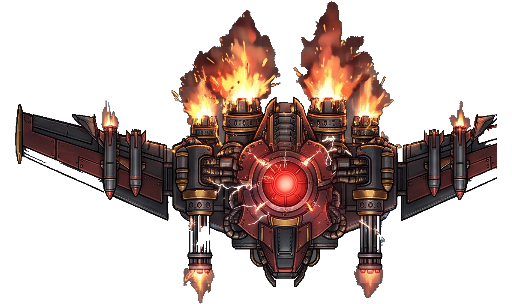
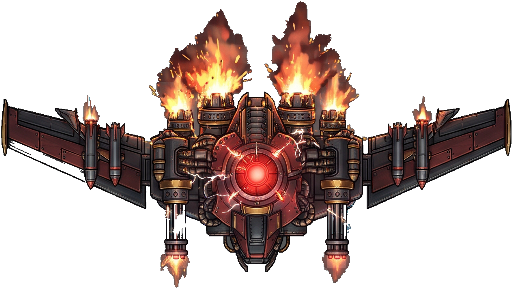
fix(plane): 修正 Boss 精灵裁切、背景铺满与 HUD 层级
- Boss 改为按设计稿半幅裁切，补回两侧翼尖与末端挂架；连通域保留阈值放宽，避免小部件被误删
- Boss 固定居中，不再左右移动
- 背景改为在实际画布坐标系 cover 铺满，消除左右黑边；加载失败回退纯色
- HUD / 控制栏叠到画布上层并加半透明暗底，保证星云背景上的文字可读

diff --git a/lib/games/plane/plane_game.dart b/lib/games/plane/plane_game.dart
@@ -385,7 +385,7 @@ class _PlanePageState extends State<PlanePage>
       kind: EnemyKind.boss,
       x: kPlaneW / 2,
       y: -70,
-      vx: 72,
+      vx: 0,
       vy: 0,
       w: 112,
       h: 62,
@@ -415,15 +415,9 @@ class _PlanePageState extends State<PlanePage>
         e.flashCooldown = math.max(0.0, e.flashCooldown - dt);
       }
       if (e.kind == EnemyKind.boss) {
+        // Boss 固定居中：左右移动会让宽机翼靠近画布边界，看起来像被切掉
         if (e.y < 105) e.y += 62 * dt; // 入场后停在上半屏
-        e.x += e.vx * dt;
-        if (e.x < kBossMoveMargin) {
-          e.x = kBossMoveMargin;
-          e.vx = e.vx.abs();
-        } else if (e.x > kPlaneW - kBossMoveMargin) {
-          e.x = kPlaneW - kBossMoveMargin;
-          e.vx = -e.vx.abs();
-        }
+        e.x = kPlaneW / 2;
       } else if (e.kind == EnemyKind.zigzag) {
         e.y += e.vy * dt;
         e.x = (e.baseX + math.sin(e.t * 2.4 + e.phase) * 62)
@@ -863,39 +857,45 @@ class _PlanePageState extends State<PlanePage>
           autofocus: true,
           focusNode: _focus,
           onKeyEvent: _onKeyEvent,
-          child: Column(
-            children: [
-              _buildHud(),
-              Expanded(
-                child: LayoutBuilder(
-                  builder: (_, cons) {
-                    final size = Size(cons.maxWidth, cons.maxHeight);
-                    return Stack(
-                      children: [
-                        RepaintBoundary(
-                          child: GestureDetector(
-                            behavior: HitTestBehavior.opaque,
-                            onPanDown: (d) {
-                              // 顶部/底部按钮可能抢走键盘焦点，点回画布时取回
-                              if (!_focus.hasFocus) _focus.requestFocus();
-                              _onPointer(d.localPosition, size);
-                            },
-                            onPanUpdate: (d) =>
-                                _onPointer(d.localPosition, size),
-                            child: CustomPaint(
-                              painter: _painter,
-                              size: size,
-                            ),
-                          ),
-                        ),
-                        _buildOverlay(),
-                      ],
-                    );
-                  },
-                ),
-              ),
-              _buildControls(),
-            ],
+          // 画布铺满整个 body（背景才能真正覆盖屏幕），HUD / 控制栏叠在画布上层，
+          // 避免 Column 布局下画布绘制溢出盖住分数文字。
+          child: LayoutBuilder(
+            builder: (_, cons) {
+              final size = Size(cons.maxWidth, cons.maxHeight);
+              return Stack(
+                children: [
+                  RepaintBoundary(
+                    child: GestureDetector(
+                      behavior: HitTestBehavior.opaque,
+                      onPanDown: (d) {
+                        // 顶部/底部按钮可能抢走键盘焦点，点回画布时取回
+                        if (!_focus.hasFocus) _focus.requestFocus();
+                        _onPointer(d.localPosition, size);
+                      },
+                      onPanUpdate: (d) =>
+                          _onPointer(d.localPosition, size),
+                      child: CustomPaint(
+                        painter: _painter,
+                        size: size,
+                      ),
+                    ),
+                  ),
+                  Positioned(
+                    left: 0,
+                    right: 0,
+                    top: 0,
+                    child: _buildHud(),
+                  ),
+                  Positioned(
+                    left: 0,
+                    right: 0,
+                    bottom: 0,
+                    child: _buildControls(),
+                  ),
+                  _buildOverlay(),
+                ],
+              );
+            },
           ),
         ),
       ),
@@ -904,7 +904,9 @@ class _PlanePageState extends State<PlanePage>
 
   Widget _buildHud() => ValueListenableBuilder<PlaneHud>(
         valueListenable: _hud,
-        builder: (_, h, _) => Padding(
+        builder: (_, h, _) => Container(
+          // 星云背景铺满后文字需要一层暗底保证可读性
+          color: const Color(0x660A1020),
           padding: const EdgeInsets.symmetric(horizontal: 14, vertical: 6),
           child: Row(
             mainAxisAlignment: MainAxisAlignment.spaceBetween,
@@ -934,7 +936,8 @@ class _PlanePageState extends State<PlanePage>
 
   Widget _buildControls() => ValueListenableBuilder<PlaneHud>(
         valueListenable: _hud,
-        builder: (_, h, _) => Padding(
+        builder: (_, h, _) => Container(
+          color: const Color(0x660A1020),
           padding: const EdgeInsets.symmetric(horizontal: 14, vertical: 8),
           child: Row(
             children: [

diff --git a/lib/games/plane/plane_painter.dart b/lib/games/plane/plane_painter.dart
@@ -21,13 +21,16 @@ class PlanePainter extends CustomPainter {
 
   @override
   void paint(Canvas canvas, Size size) {
+    // 背景在实际像素坐标系铺满整个游戏区，不受 360x640 世界画布等比缩放影响，
+    // 因此屏幕两侧不会出现黑边。
+    _drawScreenBackground(canvas, size);
+
     final tr = planeTransform(size);
     if (tr.scale <= 0) return;
     canvas.save();
     canvas.translate(tr.origin.dx, tr.origin.dy);
     canvas.scale(tr.scale);
 
-    _drawBackground(canvas);
     _drawStars(canvas);
     _drawPowerUps(canvas);
     _drawBullets(canvas);
@@ -59,50 +62,26 @@ class PlanePainter extends CustomPainter {
   }
 
   // ---- 背景 ----
-  void _drawBackground(Canvas canvas) {
+  /// cover：等比放大到铺满实际画布后居中裁剪，消除左右黑边且不变形。
+  void _drawScreenBackground(Canvas canvas, Size size) {
     final bg = sprites?.background;
     if (bg == null) {
-      _drawFallbackBackground(canvas);
+      canvas.drawRect(Offset.zero & size, _fallbackBgPaint);
       return;
     }
-    // 单张铺满：双图首尾相接会在接合处出现明显横线（原图不是无缝平铺素材）。
-    // 流动感由前景滚动的星星提供，背景不做滚动。
+    final srcW = bg.image.width.toDouble();
+    final srcH = bg.image.height.toDouble();
+    final scale = math.max(size.width / srcW, size.height / srcH);
+    final w = srcW * scale;
+    final h = srcH * scale;
     canvas.drawImageRect(
       bg.image,
       bg.src,
-      const Rect.fromLTWH(0, 0, kPlaneW, kPlaneH),
+      Rect.fromLTWH((size.width - w) / 2, (size.height - h) / 2, w, h),
       _bgImagePaint,
     );
     // 轻微压暗：星云较亮，保证子弹与飞机轮廓仍清晰
-    canvas.drawRect(
-      const Rect.fromLTWH(0, 0, kPlaneW, kPlaneH),
-      _bgDimPaint,
-    );
-  }
-
-  /// 背景图加载失败时退回原来的渐变 + 星云 + 网格背景。
-  void _drawFallbackBackground(Canvas canvas) {
-    canvas.drawRect(
-      const Rect.fromLTWH(0, 0, kPlaneW, kPlaneH),
-      _bgPaint,
-    );
-    final drift = (scene.time * 12) % (kPlaneH + 260);
-    for (var i = 0; i < 3; i++) {
-      final y = -130.0 + i * 260 + drift;
-      if (y < -100 || y > kPlaneH + 100) continue;
-      canvas.drawOval(
-        Rect.fromCenter(
-          center: Offset(kPlaneW * (0.2 + 0.3 * i), y),
-          width: 280,
-          height: 96,
-        ),
-        _nebulaPaint,
-      );
-    }
-    final offset = (scene.time * 26) % 64;
-    for (var y = -64 + offset; y < kPlaneH; y += 64) {
-      canvas.drawLine(Offset(0, y), Offset(kPlaneW, y), _gridPaint);
-    }
+    canvas.drawRect(Offset.zero & size, _bgDimPaint);
   }
 
   void _drawStars(Canvas canvas) {
@@ -362,28 +341,10 @@ class PlanePainter extends CustomPainter {
   }
 
   // ---- 复用 Paint ----
-  static final Paint _bgPaint = Paint()
-    ..shader = const LinearGradient(
-      begin: Alignment.topCenter,
-      end: Alignment.bottomCenter,
-      colors: <Color>[
-        Color(0xFF030816),
-        Color(0xFF0A1734),
-        Color(0xFF123054),
-      ],
-    ).createShader(const Rect.fromLTWH(0, 0, kPlaneW, kPlaneH));
-
+  static final Paint _fallbackBgPaint = Paint()..color = const Color(0xFF0A1734);
   static final Paint _bgImagePaint = Paint()
     ..filterQuality = FilterQuality.medium;
   static final Paint _bgDimPaint = Paint()..color = const Color(0x33081420);
-
-  // 不用 MaskFilter.blur：大半径模糊椭圆每帧走 GPU 光栅化，
-  // 在低端机上会明显掉帧；纯半透明椭圆已足够表现星云。
-  static final Paint _nebulaPaint = Paint()..color = const Color(0x144FC3F7);
-
-  static final Paint _gridPaint = Paint()
-    ..color = const Color(0x104FC3F7)
-    ..strokeWidth = 1;
 
   static final List<Paint> _starPaints = <Paint>[
     for (var i = 0; i < 4; i++)

diff --git a/tool/gen_plane_sprites.dart b/tool/gen_plane_sprites.dart
@@ -72,11 +72,12 @@ const List<GroupSpec> _groups = [
     FrameSpec(file: 'plane-1.jpg', x: 1508, y: 1039, w: 448, h: 477, rotate: 180),
     FrameSpec(file: 'plane-1.jpg', x: 2063, y: 1014, w: 448, h: 502, rotate: 180),
   ]),
-  // 图 2 STYLE A：重装机械 Boss（两帧）。
-  // 机翼横向跨度到 x≈68 / x≈2685，框必须留足两边，否则翼尖会被切平。
+  // 图 2 STYLE A：重装机械 Boss（两帧并排）。
+  // 两架机翼几乎占满整幅，按画布中线一分为二才不会切掉翼尖；
+  // 中线正好落在两架之间的空隙里。y 只取上半幅，避开 STYLE B。
   GroupSpec(id: 'boss', maxSide: 512, frames: [
-    FrameSpec(file: 'plane-2.jpg', x: 40, y: 60, w: 1220, h: 820, rotate: 180),
-    FrameSpec(file: 'plane-2.jpg', x: 1560, y: 60, w: 1192, h: 820, rotate: 180),
+    FrameSpec(file: 'plane-2.jpg', x: 0, y: 55, w: 1376, h: 830, rotate: 180),
+    FrameSpec(file: 'plane-2.jpg', x: 1376, y: 55, w: 1376, h: 830, rotate: 180),
   ]),
   // 图 3 STYLE A：高科技流线型玩家机（机头已朝上，两帧）
   GroupSpec(id: 'player', maxSide: 288, frames: [
@@ -315,9 +316,11 @@ void _keepMainComponents(img.Image im) {
   if (areas.isEmpty) return;
 
   final maxArea = areas.reduce(max);
+  // 阈值放宽到 5%：机翼末端的导弹/挂架可能只通过细线与机身相连，
+  // 按 15% 过滤会把它们当成杂点删掉，造成机翼残缺。
   final keep = <int>{
     for (var i = 0; i < areas.length; i++)
-      if (areas[i] >= maxArea * 0.15) i,
+      if (areas[i] >= maxArea * 0.05) i,
   };
   for (var i = 0; i < w * h; i++) {
     final id = label[i];

diff --git a/lib/games/plane/plane_constants.dart b/lib/games/plane/plane_constants.dart
@@ -62,9 +62,6 @@ const double kHeavySpriteH = 48;
 const double kBossSpriteH = 104;
 const double kEnemySpriteAnchor = 0.65;
 
-// Boss 精灵比碰撞体宽，横向移动边界按视觉半宽收紧，保证整架飞机始终在画布内。
-const double kBossMoveMargin = 96;
-
 // 中弹闪白：持续时长 + 再触发冷却。自动开火会连续命中，
 // 没有冷却的话高血量敌机会一直处于闪白状态。
 const double kHitFlashDuration = 0.12;
